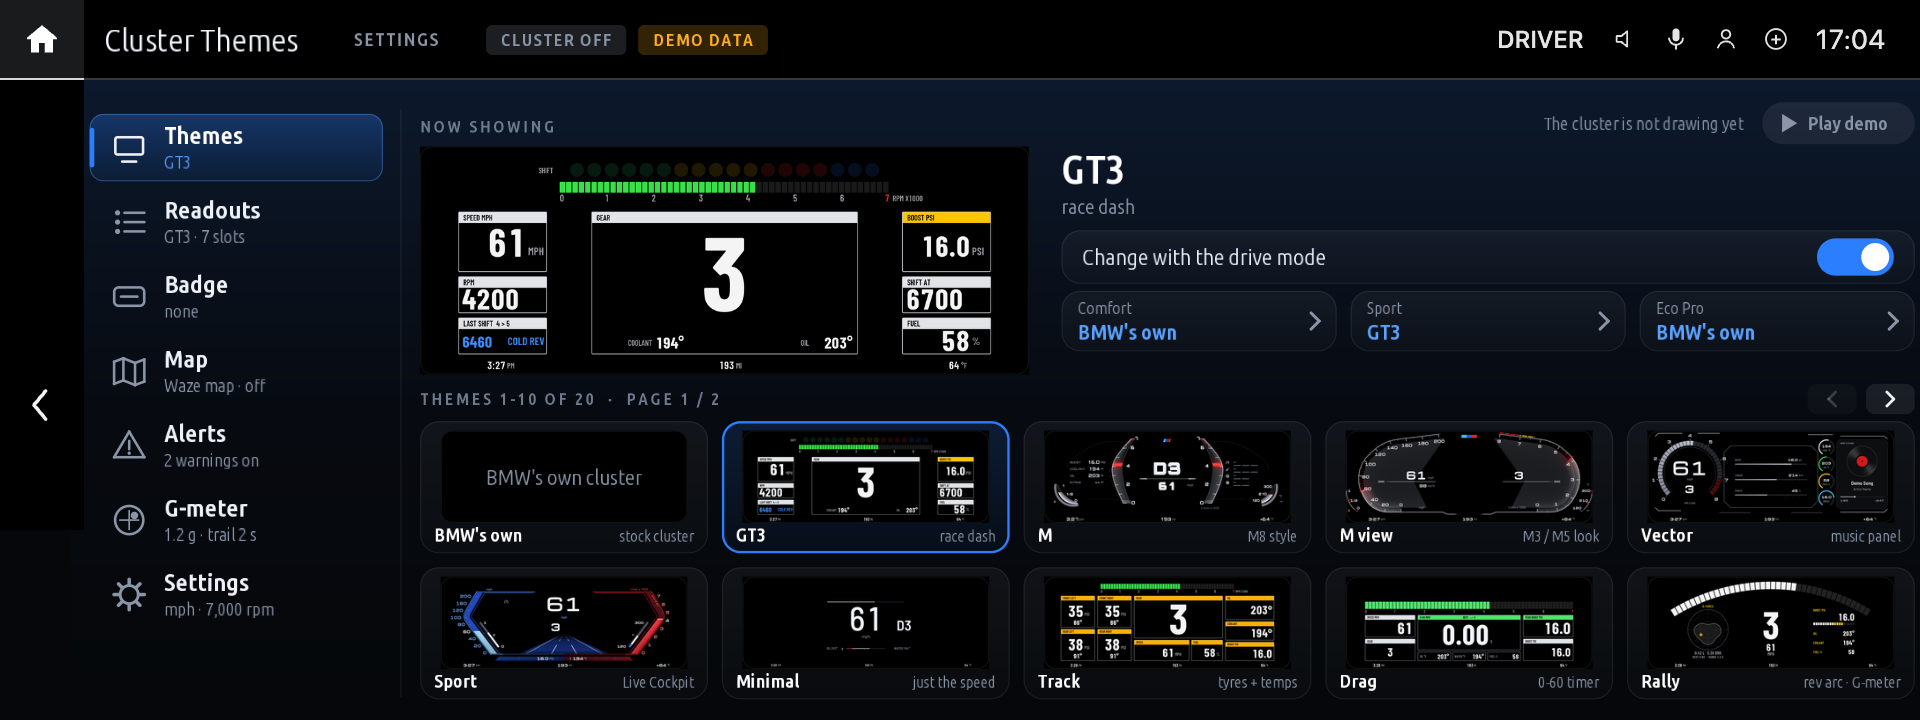
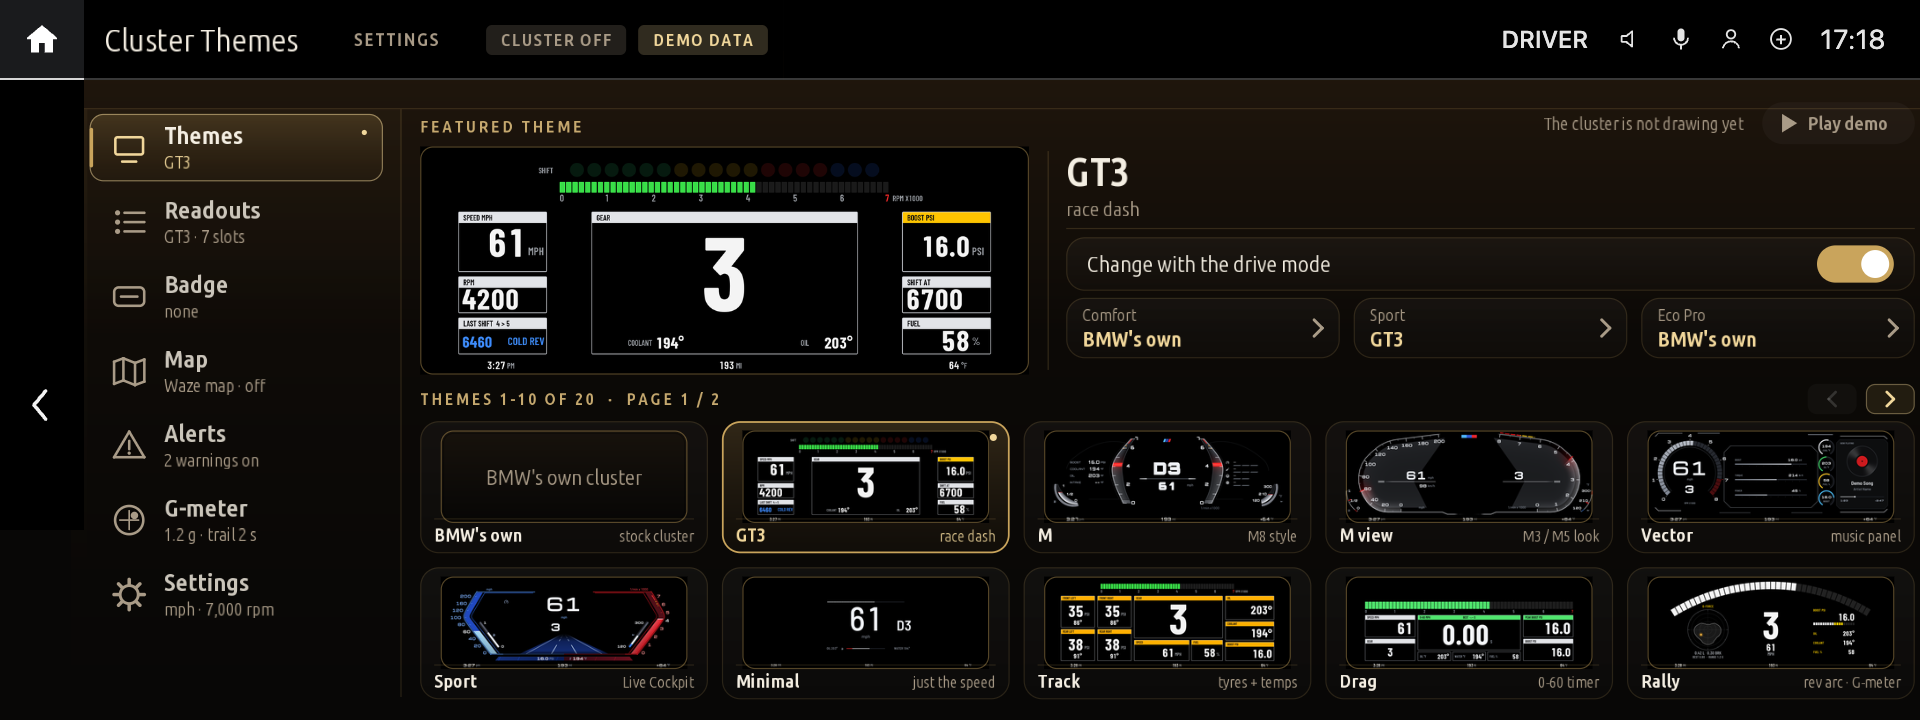
first commit

diff --git a/shared/page.js b/shared/page.js
@@ -1,8 +1,8 @@
 'use strict';
 /**
  * page.js - the app's own centre-screen page (both apps), in place of BMW's plain settings list.
- * Look: design/settings-mock-v2.png (approved Nov 7 2026): near-black with a soft blue glow, a rail of
- * tabs on the left (icon, name, current value), glass cards, BMW blue for what is on.
+ * Look: near-black with a warm champagne glow, a rail of tabs on the left (icon, name, current value),
+ * glass cards, and gold/bronze details for what is on.
  *
  * Drawn on the kit's canvas screen (kit/runtime/display.js): on the Store's renderer it fills the screen at
  * up to 60 fps and every tap or controller press lands on a target (cv.target); without the renderer the
@@ -28,9 +28,11 @@ const tz = require('./tz');
 
 const W = 1600, H = 520;
 const A = G.withAlpha;
+// Premium / warm-black palette: champagne highlights, ivory text and bronze details.
 const C = {
-    bg: '#05070a', glow: '#0d1a2e', text: '#eef2f8', dim: '#8a96a8', label: '#6f7b8f', line: '#ffffff12',
-    blue: '#2b7fff', blueHi: '#5aa2ff', blueDeep: '#1c69d4', live: '#7fd3a0', off: '#c3cad6',
+    bg: '#080706', glow: '#21170d', text: '#f4eee2', dim: '#a99b87', label: '#c6a96f', line: '#efe4d11a',
+    blue: '#c9a45c', blueHi: '#f1d79b', blueDeep: '#8d6a34', live: '#9fc7ad', off: '#bdb19d',
+    gold: '#c9a45c', goldHi: '#f1d79b', bronze: '#8d6a34',
 };
 const RAIL = { x: 16, y: 54, w: 252, h: 66, gap: 8 };
 const RAIL7 = { x: 16, y: 54, w: 252, h: 58, gap: 6 };     // seven tabs or more: a little shorter, so they fit
@@ -49,8 +51,12 @@ const TAB = {
     settings: { name: 'Settings', icon: 'cog' },
 };
 
-// the kit's own chrome (header, bar, Settings sheet) in BMW blue, to match the page
-Object.assign(themes.THEMES.m_tricolour, { sel: C.blue, selText: '#ffffff', accent2: C.blueHi, bg: C.bg });
+// the kit's own chrome (header, bar, Settings sheet) in the page's warm gold, to match
+Object.assign(themes.THEMES.m_tricolour, {
+    bg: C.bg, text: C.text, dim: C.dim, tab: C.text, panelTop: '#17130d', panelBottom: '#0c0a07',
+    panelEdge: '#2b2317', track: '#211b12', tick: '#75664f', accent: C.gold, accent2: C.goldHi,
+    sel: C.gold, selText: C.text, glow: '#c9a45c38', ok: C.gold, marker: C.goldHi,
+});
 
 class Page {
     constructor(ctx, hud, cfg) {
@@ -141,12 +147,14 @@ class Page {
         const bottom = G.pageBottom(cv);
         const h = bottom + 8;
         cv.clear(C.bg);
-        cv.gradientRect(0, 0, W, h, [[0, C.glow], [0.55, '#070a10'], [1, C.bg]]);
+        cv.gradientRect(0, 0, W, h, [[0, C.glow], [0.42, '#0c0906'], [1, C.bg]]);
+        cv.fillRect(0, 49, W, 1, A(C.gold, 0.16));
+        cv.gradientRect(0, 50, 14, bottom - 50, [[0, A(C.gold, 0.05)], [1, '#00000000']]);
         const on = this.hud.activeName && this.hud.activeName !== 'off';
         const dd = this.hud.car && this.hud.car.data(), demo = dd && dd.demo;
         G.frame(cv, this.theme(), [], -1, [
-            demo ? { text: dd.demoShow ? 'DEMO' : 'DEMO DATA', color: '#ffb020' } : null,
-            { text: on ? 'ON THE ' + this.cfg.what.toUpperCase() : this.cfg.what.toUpperCase() + ' OFF', color: on ? '#3ddc84' : C.dim },
+            demo ? { text: dd.demoShow ? 'DEMO' : 'DEMO DATA', color: C.goldHi } : null,
+            { text: on ? 'ON THE ' + this.cfg.what.toUpperCase() : this.cfg.what.toUpperCase() + ' OFF', color: on ? C.live : C.dim },
         ]);
         // the page under an open list takes no taps: the list (and a tap beside it to close) does
         const target = cv.target;
@@ -172,12 +180,13 @@ class Page {
         const playing = hud.demoPlaying(), why = playing ? null : hud.demoBlocked();
         const text = playing ? 'Stop demo' : 'Play demo', h = 36, y = 44;
         const w = cv.textWidth(text, 16, { font: 'bold', literal: true }) + 62, x = CR - w;
-        cv.roundRect(x, y, w, h, h / 2, playing ? '#ffffff14' : why ? '#ffffff12' : C.blue);
-        if (playing) cv.strokeRoundRect(x, y, w, h, h / 2, 1, A(C.blueHi, 0.6));
-        const ic = why ? C.dim : '#ffffff', ix = x + 22, iy = y + h / 2;
+        const solid = !playing && !why;
+        cv.roundRect(x, y, w, h, h / 2, playing ? '#ffffff12' : why ? '#ffffff08' : C.gold);
+        if (playing) cv.strokeRoundRect(x, y, w, h, h / 2, 1, A(C.goldHi, 0.55));
+        const ic = why ? C.dim : solid ? C.bg : C.text, ix = x + 22, iy = y + h / 2;
         if (playing) cv.fillRect(ix - 6, iy - 6, 12, 12, ic);
         else cv.quad([[ix - 5, iy - 8], [ix + 8, iy], [ix + 8, iy], [ix - 5, iy + 8]], ic);
-        cv.text(text, x + 36 + (w - 36) / 2 - 10, y + 24, 16, why ? C.dim : '#ffffff', { align: 'center', font: 'bold', literal: true });
+        cv.text(text, x + 36 + (w - 36) / 2 - 10, y + 24, 16, why ? C.dim : solid ? C.bg : C.text, { align: 'center', font: 'bold', literal: true });
         const what = this.cfg.what === 'cluster' ? 'cluster' : 'HUD';
         const info = playing ? 'Playing on the ' + what + ' · ' + Math.ceil(hud.demoLeft() / 1000) + ' s'
             : why === 'moving' ? 'Stop the car to play the demo' : why === 'off' ? 'Pick a ' + (what === 'HUD' ? 'layout' : 'theme') + ' to play the demo'
@@ -187,18 +196,20 @@ class Page {
     }
 
     rail(cv, bottom) {
-        cv.fillRect(RAIL.x + RAIL.w + 15, 50, 1, bottom - 56, C.line);
+        cv.gradientRect(RAIL.x - 16, 50, RAIL.w + 32, bottom - 50, [[0, A(C.gold, 0.035)], [1, '#00000000']]);
+        cv.fillRect(RAIL.x + RAIL.w + 15, 50, 1, bottom - 56, A(C.gold, 0.18));
         const R = this.cfg.tabs.length > 6 ? RAIL7 : RAIL, dy = (66 - R.h) / 2;
         this.cfg.tabs.forEach((id, i) => {
             const x = R.x, y = R.y + i * (R.h + R.gap), w = R.w, h = R.h, sel = id === this.tab;
             if (sel) {
-                cv.card(x, y, w, h, 12, [[0, A(C.blue, 0.30)], [1, A(C.blueDeep, 0.10)]]);
-                cv.strokeRoundRect(x, y, w, h, 12, 1, A(C.blueHi, 0.35));
-                cv.roundRect(x, y + 12, 4, h - 24, 2, C.blue);
+                cv.card(x, y, w, h, 12, [[0, A(C.gold, 0.20)], [1, A(C.bronze, 0.05)]]);
+                cv.strokeRoundRect(x, y, w, h, 12, 1, A(C.goldHi, 0.50));
+                cv.roundRect(x, y + 12, 3, h - 24, 1.5, C.gold);
+                cv.circle(x + w - 16, y + 16, 2.2, C.goldHi);
             }
-            icon(cv, (TAB[id] || {}).icon, x + 34, y + h / 2, sel ? C.text : C.dim);
-            cv.text(this.tabName(id), x + 64, y + 30 - dy, 21, sel ? '#ffffff' : C.text, { font: 'bold', literal: true });
-            cv.text(this.tabValue(id), x + 64, y + 53 - dy * 1.5, 15, sel ? A(C.blueHi, 0.95) : C.dim, { literal: true });
+            icon(cv, (TAB[id] || {}).icon, x + 34, y + h / 2, sel ? C.goldHi : C.dim);
+            cv.text(this.tabName(id), x + 64, y + 30 - dy, 21, sel ? C.text : A(C.text, 0.82), { font: 'bold', literal: true });
+            cv.text(this.tabValue(id), x + 64, y + 53 - dy * 1.5, 15, sel ? A(C.goldHi, 0.95) : C.dim, { literal: true });
             cv.target(x, y, w, h, () => { this.tab = id; this.picker = null; this.kick(); }, 'tab:' + id, 12);
         });
     }
@@ -228,14 +239,16 @@ class Page {
     /** Cluster: the theme showing now, the drive modes beside it; every theme below in two rows. */
     lookHero(cv, bottom) {
         const shown = this.shownName();
-        label(cv, CX, 70, 'Now showing');
+        label(cv, CX, 70, 'Featured theme');
         const pw = 523, ph = 196, px = CX, py = 82;
         this.picture(cv, shown, 'big', px, py, pw, ph);
         // right: name, tag line, the drive modes side by side
-        const rx = px + pw + 28, rw = CR - rx;
-        cv.text(this.layoutName(shown), rx, py + 32, 34, '#ffffff', { font: 'bold', literal: true });
-        cv.text(this.yieldNote() || this.tag(shown), rx, py + 58, 17, this.yieldNote() ? '#e0a340' : C.dim, { literal: true });
-        const y = this.toggleRow(cv, rx, py + 72, rw, 'Change with the drive mode', 'byMode', 46);
+        const rx = px + pw + 32, rw = CR - rx;
+        cv.fillRect(rx - 16, py + 4, 1, ph - 8, A(C.gold, 0.20));
+        cv.text(this.layoutName(shown), rx, py + 34, 34, C.text, { font: 'bold', literal: true });
+        cv.text(this.yieldNote() || this.tag(shown), rx, py + 60, 17, this.yieldNote() ? '#e0a340' : C.dim, { literal: true });
+        cv.fillRect(rx, py + 70, rw, 1, A(C.gold, 0.18));
+        const y = this.toggleRow(cv, rx, py + 78, rw, 'Change with the drive mode', 'byMode', 46);
         if (this.get('byMode') === true) {
             const now = MODE_KEY[this.hud.driveMode], cw = (rw - 24) / 3;
             MODES.forEach((m, i) => this.modeCell(cv, rx + i * (cw + 12), y, cw, m[1] + (m[0] === now ? '  ·  now' : ''), m[0]));
@@ -262,8 +275,10 @@ class Page {
             glass(cv, x, yy, gw, gh, sel);
             const ih = Math.min(gh - 34, (gw - 16) * 0.375), iw = ih / 0.375;
             this.picture(cv, v, 'small', x + (gw - iw) / 2, yy + 8, iw, ih);
-            cv.text(this.layoutName(v), x + 12, yy + gh - 10, 16, '#ffffff', { font: 'bold', literal: true });
-            cv.text(this.tag(v), x + gw - 12, yy + gh - 10, 13, C.dim, { align: 'right', literal: true });
+            cv.fillRect(x + 12, yy + gh - 30, gw - 24, 1, A(C.gold, 0.16));
+            cv.text(this.layoutName(v), x + 12, yy + gh - 10, 16, sel ? C.goldHi : C.text, { font: 'bold', literal: true });
+            cv.text(this.tag(v), x + gw - 12, yy + gh - 10, 13, sel ? A(C.goldHi, 0.85) : C.dim, { align: 'right', literal: true });
+            if (sel) cv.circle(x + gw - 14, yy + 14, 3, C.goldHi);
             cv.target(x, yy, gw, gh, () => this.chooseLayout(this.lookKey(), v), 'look:' + v, 16);
         });
     }
@@ -316,11 +331,12 @@ class Page {
 
     /** A theme's picture (black when there is none: BMW's own, or a build without previews). */
     picture(cv, name, size, x, y, w, h) {
-        cv.roundRect(x, y, w, h, 10, '#000000');
+        cv.card(x, y, w, h, 11, [[0, '#17120c'], [1, '#070605']]);
         const p = name !== 'off' && previews.get(name, size);
         if (p) cv.image(p.id, x, y, w, h);
         else cv.text(name === 'off' ? "BMW's own " + this.cfg.what : this.layoutName(name), x + w / 2, y + h / 2 + 7, 18, C.dim, { align: 'center', literal: true });
-        cv.strokeRoundRect(x, y, w, h, 10, 1, '#ffffff10');
+        cv.strokeRoundRect(x, y, w, h, 11, 1, A(C.gold, 0.42));
+        cv.strokeRoundRect(x + 2, y + 2, w - 4, h - 4, 9, 1, '#00000055');
     }
 
     /* ---------- Readouts ---------- */
@@ -386,8 +402,8 @@ class Page {
             const y = py + 94 + i * lh, sel = cur && cur.id === sn.id;
             if (sel) cv.roundRect(px + 10, y, pw - 20, lh - 4, 10, A(C.blue, 0.35));
             else if (i) cv.fillRect(px + 20, y - 2, pw - 40, 1, C.line);
-            cv.text(sn.name, px + 24, y + lh / 2 + 4, 18, sel ? '#ffffff' : C.text, { font: sel ? 'bold' : 'label', literal: true });
-            cv.text(this.sensorText(sn), px + pw - 24, y + lh / 2 + 4, 17, sel ? '#ffffff' : C.dim, { align: 'right', literal: true });
+            cv.text(sn.name, px + 24, y + lh / 2 + 4, 18, sel ? C.goldHi : C.text, { font: sel ? 'bold' : 'label', literal: true });
+            cv.text(this.sensorText(sn), px + pw - 24, y + lh / 2 + 4, 17, sel ? C.goldHi : C.dim, { align: 'right', literal: true });
             cv.target(px + 10, y, pw - 20, lh - 4, () => { this.hud.setSlot(lay, this.slot, sn.id); this.kick(); }, 'sensor:' + sn.id, 10);
         });
     }
@@ -465,15 +481,15 @@ class Page {
         list.forEach((m, i) => {
             const x = CX + (i % 2) * (cw + 12), y = 162 + Math.floor(i / 2) * (rh + 6), sel = m === model;
             glass(cv, x, y, cw, rh, sel);
-            cv.text(m, x + 18, y + rh / 2 + 7, 19, sel ? '#ffffff' : C.text, { font: sel ? 'bold' : 'label', literal: true });
-            if (sel) check(cv, x + cw - 30, y + rh / 2, '#ffffff');
+            cv.text(m, x + 18, y + rh / 2 + 7, 19, sel ? C.goldHi : C.text, { font: sel ? 'bold' : 'label', literal: true });
+            if (sel) check(cv, x + cw - 30, y + rh / 2, C.goldHi);
             cv.target(x, y, cw, rh, () => this.set('badge', m), 'badge:' + m, 14);
         });
         // right: what shows, the lettering, none
         const rx = CX + lw + 30, rw = CR - rx, shown = badges.text(model, this.get('badgeBMW') === true);
         label(cv, rx, 70, 'On the cluster');
-        cv.card(rx, 82, rw, 110, 16, [[0, '#000000'], [1, '#05070a']]);
-        cv.strokeRoundRect(rx, 82, rw, 110, 16, 1, C.line);
+        cv.card(rx, 82, rw, 110, 16, [[0, '#16120d'], [1, '#070605']]);
+        cv.strokeRoundRect(rx, 82, rw, 110, 16, 1, A(C.gold, 0.22));
         cv.text(shown || 'No badge', rx + rw / 2, 148, shown ? 34 : 22, shown ? '#ffffff' : C.dim, { align: 'center', font: 'bold', literal: true });
         let y = 204;
         y = this.toggleRow(cv, rx, y, rw, 'BMW lettering', 'badgeBMW');
@@ -695,18 +711,18 @@ class Page {
     /** A list of a setting's choices over the page; a tap on one sets it, a tap beside it closes. */
     drawPicker(cv, bottom) {
         const p = this.picker, s = this.item(p.key), opts = s.type === 'number' ? (s.steps || []).map((v) => [v, null]) : s.options || [];
-        cv.fillRect(0, 36, W, bottom + 20, '#000000b0');
+        cv.fillRect(0, 36, W, bottom + 20, '#060504cc');
         const w = 620, rh = 58, h = 76 + opts.length * rh, x = (W - w) / 2, y = Math.max(52, (bottom + 44 - h) / 2);
-        cv.card(x, y, w, h, 18, [[0, '#18233a'], [1, '#0c111b']]);
-        cv.strokeRoundRect(x, y, w, h, 18, 1, A(C.blueHi, 0.3));
+        cv.card(x, y, w, h, 18, [[0, '#211a11'], [1, '#0b0907']]);
+        cv.strokeRoundRect(x, y, w, h, 18, 1, A(C.goldHi, 0.35));
         cv.text(p.title.toUpperCase(), x + 26, y + 42, 15, C.label, { font: 'bold', spacing: 2.4, literal: true });
         const v = this.get(p.key);
         opts.forEach((o, i) => {
             const ry = y + 60 + i * rh, sel = o[0] === v;
-            if (sel) cv.roundRect(x + 12, ry, w - 24, rh - 6, 12, A(C.blue, 0.35));
+            if (sel) cv.roundRect(x + 12, ry, w - 24, rh - 6, 12, A(C.gold, 0.16));
             const text = p.fmt ? p.fmt(o[0]) : o[1] !== null ? o[1] : fmtInt(o[0]) + ' rpm';
-            cv.text(text, x + 30, ry + 34, 20, sel ? '#ffffff' : C.text, { font: sel ? 'bold' : 'label', literal: true });
-            if (sel) check(cv, x + w - 50, ry + 26, '#ffffff');
+            cv.text(text, x + 30, ry + 34, 20, sel ? C.goldHi : C.text, { font: sel ? 'bold' : 'label', literal: true });
+            if (sel) check(cv, x + w - 50, ry + 26, C.goldHi);
             cv.target(x + 12, ry, w - 24, rh - 6, () => {
                 this.picker = null;
                 if (LOOK_KEYS.indexOf(p.key) >= 0) this.chooseLayout(p.key, o[0]); else this.set(p.key, o[0]);
@@ -718,16 +734,16 @@ class Page {
     /** The question chooseLayout asks, over the page: the answer button, Cancel, a tap beside it cancels. */
     drawConfirm(cv, bottom) {
         const q = this.confirm, close = () => { this.confirm = null; this.kick(); };
-        cv.fillRect(0, 36, W, bottom + 20, '#000000b0');
+        cv.fillRect(0, 36, W, bottom + 20, '#060504cc');
         const w = 720, h = 96 + q.lines.length * 30 + 84, x = (W - w) / 2, y = Math.max(52, (bottom + 44 - h) / 2);
-        cv.card(x, y, w, h, 18, [[0, '#18233a'], [1, '#0c111b']]);
-        cv.strokeRoundRect(x, y, w, h, 18, 1, A(C.blueHi, 0.3));
-        cv.text(q.title, x + 32, y + 56, 28, '#ffffff', { font: 'bold', literal: true });
+        cv.card(x, y, w, h, 18, [[0, '#211a11'], [1, '#0b0907']]);
+        cv.strokeRoundRect(x, y, w, h, 18, 1, A(C.goldHi, 0.35));
+        cv.text(q.title, x + 32, y + 56, 28, C.text, { font: 'bold', literal: true });
         q.lines.forEach((s, i) => cv.text(s, x + 32, y + 98 + i * 30, 19, C.text, { literal: true }));
         const bh = 52, by = y + h - bh - 24;
         const yw = cv.textWidth(q.yes, 18, { font: 'bold', literal: true }) + 56, yx = x + w - 32 - yw;
-        cv.roundRect(yx, by, yw, bh, bh / 2, C.blue);
-        cv.text(q.yes, yx + yw / 2, by + 33, 18, '#ffffff', { align: 'center', font: 'bold', literal: true });
+        cv.roundRect(yx, by, yw, bh, bh / 2, C.gold);
+        cv.text(q.yes, yx + yw / 2, by + 33, 18, C.bg, { align: 'center', font: 'bold', literal: true });
         cv.target(yx, by, yw, bh, () => { this.confirm = null; q.run(); this.kick(); }, 'confirm:yes', bh / 2);
         const nw = 150, nx = yx - 16 - nw;
         cv.roundRect(nx, by, nw, bh, bh / 2, '#ffffff14');
@@ -753,31 +769,33 @@ function label(cv, x, y, s) { cv.text(s.toUpperCase(), x, y, 14, C.label, { font
 function note(cv, x, y, lines) { lines.forEach((s, i) => cv.text(s, x, y + i * 26, 17, C.dim, { literal: true })); }
 function glass(cv, x, y, w, h, sel) {
     if (sel) {
-        cv.card(x, y, w, h, 16, [[0, A(C.blue, 0.16)], [1, A(C.blueDeep, 0.05)]]);
-        cv.strokeRoundRect(x, y, w, h, 16, 2, C.blue);
+        cv.card(x, y, w, h, 16, [[0, A(C.gold, 0.20)], [1, A(C.bronze, 0.05)]]);
+        cv.strokeRoundRect(x, y, w, h, 16, 1.5, C.gold);
     } else {
-        cv.card(x, y, w, h, 16, [[0, '#ffffff0b'], [1, '#ffffff04']]);
-        cv.strokeRoundRect(x, y, w, h, 16, 1, C.line);
+        cv.card(x, y, w, h, 16, [[0, '#ffffff09'], [1, '#ffffff03']]);
+        cv.strokeRoundRect(x, y, w, h, 16, 1, A(C.gold, 0.16));
     }
 }
 function chip(cv, x, y, text, on, run, key) {
     const w = cv.textWidth(text, 16, { font: 'bold', literal: true }) + 30, h = 36;
-    cv.roundRect(x, y, w, h, h / 2, on ? C.blue : '#ffffff12');
-    cv.text(text, x + w / 2, y + 24, 16, on ? '#ffffff' : C.off, { align: 'center', font: 'bold', literal: true });
+    cv.roundRect(x, y, w, h, h / 2, on ? C.gold : '#ffffff0e');
+    if (on) cv.strokeRoundRect(x, y, w, h, h / 2, 1, A(C.goldHi, 0.45));
+    cv.text(text, x + w / 2, y + 24, 16, on ? C.bg : C.off, { align: 'center', font: 'bold', literal: true });
     cv.target(x, y, w, h, run, key, h / 2);
     return w;
 }
 /** A small chip (the HUD cards' drive modes). */
 function miniChip(cv, x, y, text, on, run, key) {
     const w = cv.textWidth(text, 13, { font: 'bold', literal: true }) + 18, h = 28;
-    cv.roundRect(x, y, w, h, h / 2, on ? C.blue : '#ffffff12');
-    cv.text(text, x + w / 2, y + 19, 13, on ? '#ffffff' : C.off, { align: 'center', font: 'bold', literal: true });
+    cv.roundRect(x, y, w, h, h / 2, on ? C.gold : '#ffffff0e');
+    cv.text(text, x + w / 2, y + 19, 13, on ? C.bg : C.off, { align: 'center', font: 'bold', literal: true });
     cv.target(x, y, w, h, run, key, h / 2);
     return w;
 }
 function pageBtn(cv, x, y, dir, live, run, key) {
-    cv.roundRect(x, y, 42, 26, 8, live ? '#ffffff14' : '#ffffff07');
-    const c = live ? C.text : '#ffffff30', cx = x + 21, cy = y + 13;
+    cv.roundRect(x, y, 42, 26, 8, live ? A(C.gold, 0.12) : '#ffffff07');
+    if (live) cv.strokeRoundRect(x, y, 42, 26, 8, 1, A(C.goldHi, 0.35));
+    const c = live ? C.goldHi : '#ffffff25', cx = x + 21, cy = y + 13;
     cv.line(cx - 3 * dir, cy - 6, cx + 3 * dir, cy, 2.3, c);
     cv.line(cx + 3 * dir, cy, cx - 3 * dir, cy + 6, 2.3, c);
     if (live) cv.target(x, y, 42, 26, run, key, 8);

diff --git a/README.md b/README.md
@@ -1,9 +1,5 @@
 # Roiteam · Cluster Themes
 
-<p align="center">
-  <img src="docs/images/cluster-gt3.png" width="100%" alt="Cluster Themes, GT3 theme">
-</p>
-
 **Cluster Themes** turns the BMW iDrive 7 instrument cluster into a display you choose. Pick one of
 19 themes on the centre screen, or let Comfort / Sport / Eco Pro pick one for you. It is drawn over
 BMW's own cluster through [cluster-render](https://github.com/robertnisipeanu/idrive-apps), and it
@@ -26,7 +22,7 @@ only reads from the car.
   range, outside temperature, tyre pressures and temperatures, G-forces, power and torque.
 - **Shift lights and warnings** that follow your redline, shift point and cold-engine guard.
 - **Theme pictures in the app**, so the centre screen shows what each theme looks like before you
-  pick it.
+  pick it, in a warm-black, champagne-accented interface built for the car.
 
 ## Themes
 
@@ -171,7 +167,7 @@ node bench/server.js                                             # cluster bench
 - Full development notes: [docs/cluster-themes.md](docs/cluster-themes.md)
 - Bench and signal controls: [bench/README.md](bench/README.md)
 
-The project is currently **0.21.0**.
+The project is currently **0.22.0**.
 
 ## Credits and licences
 
